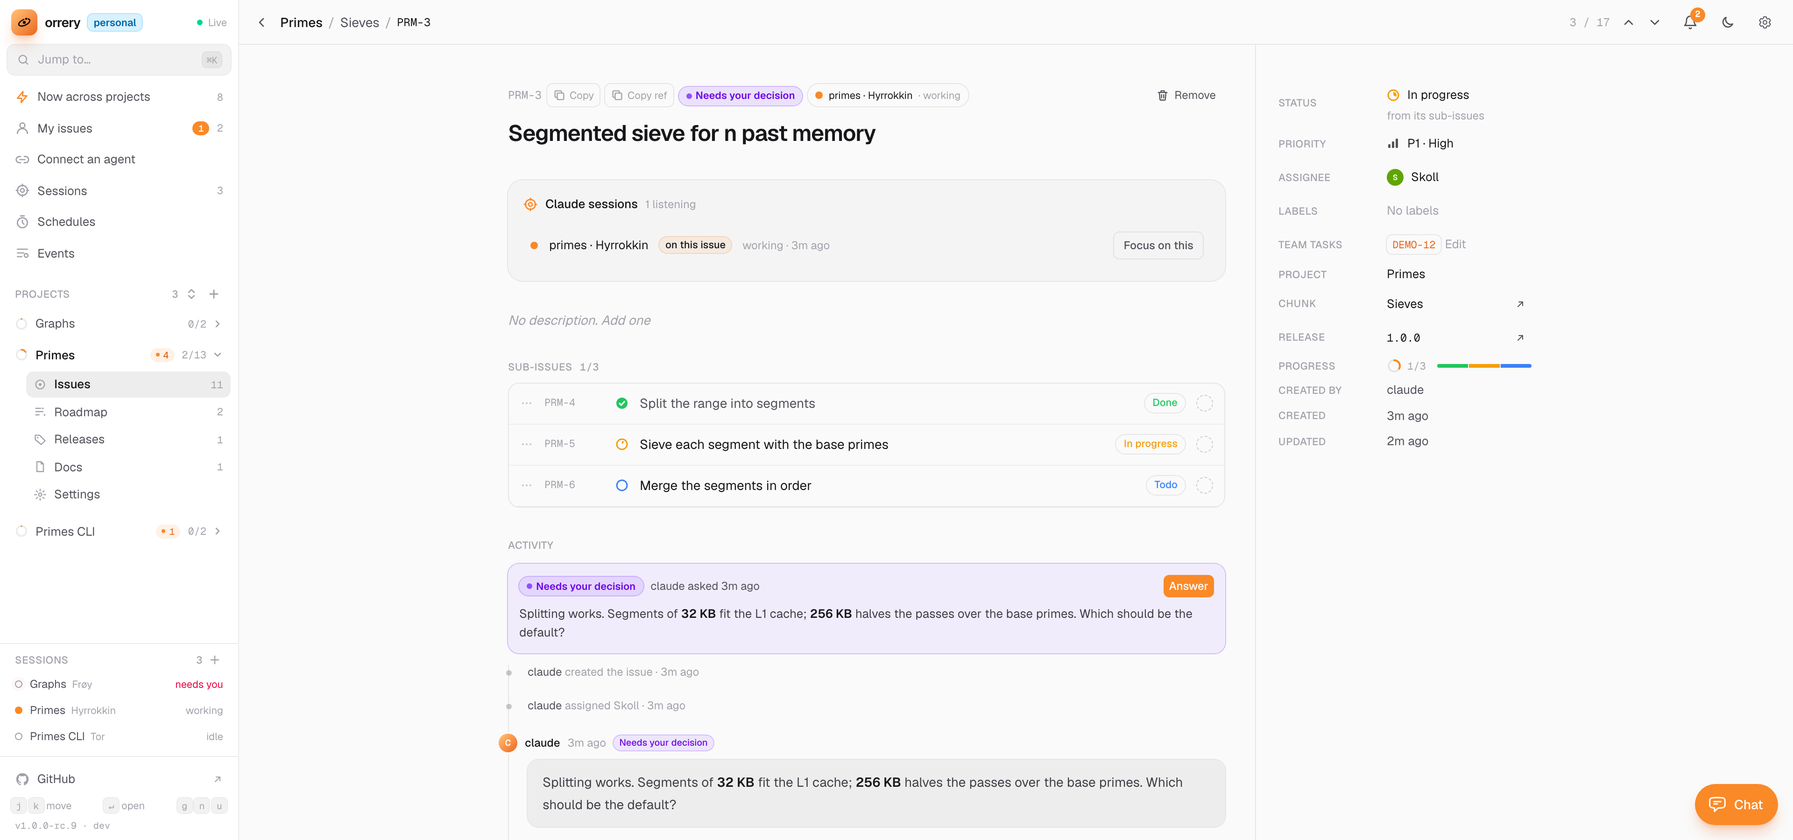
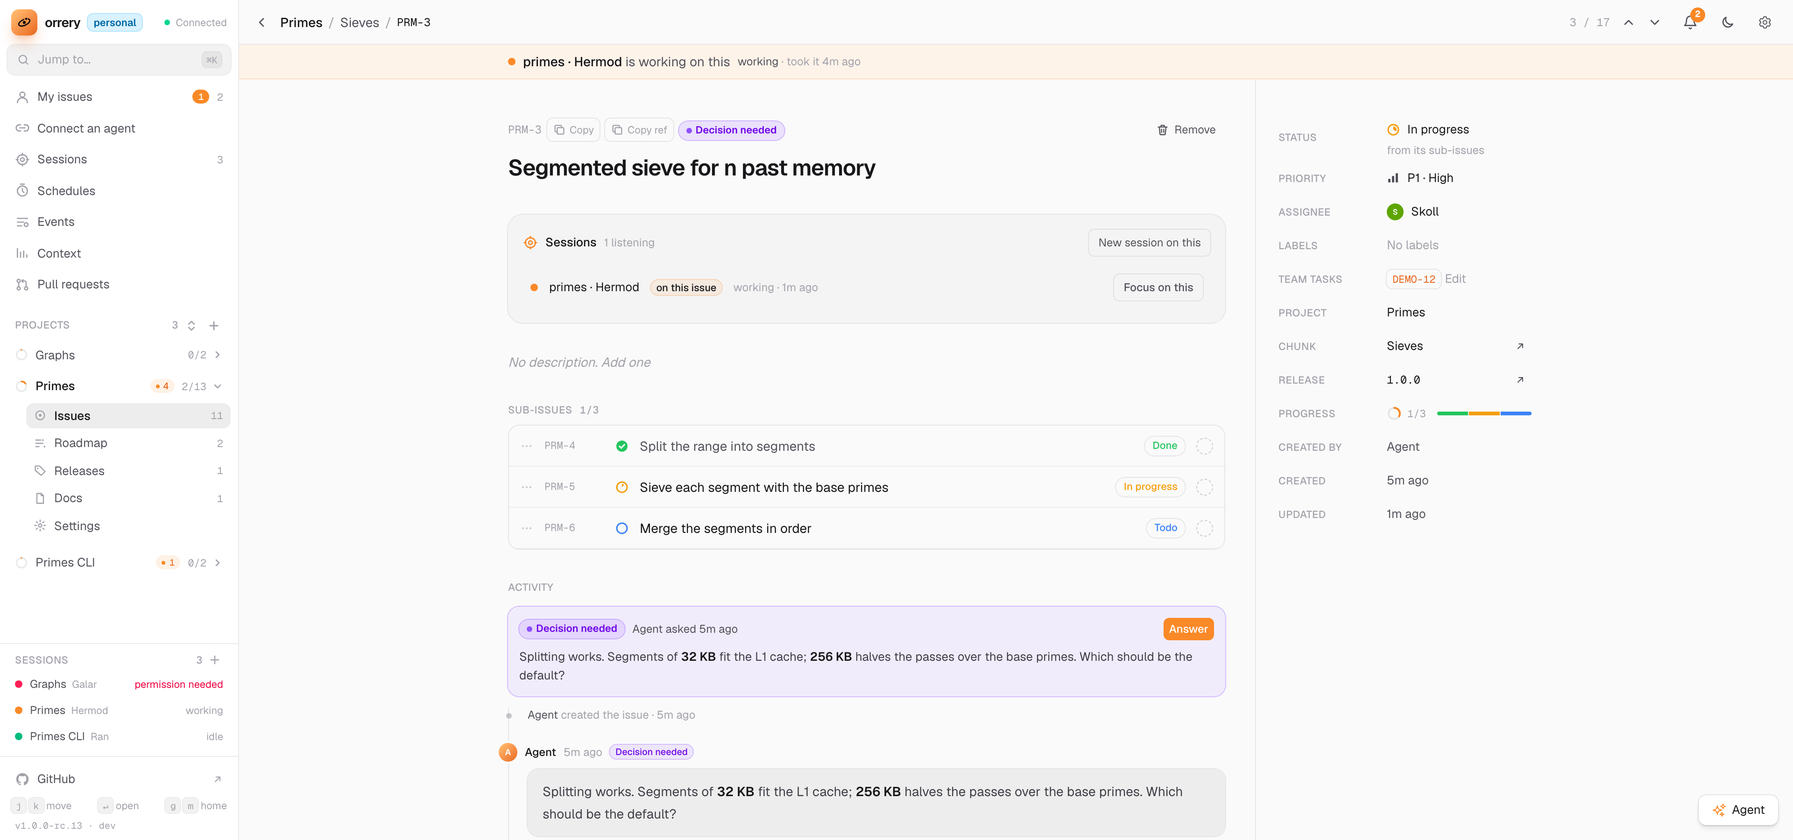
docs(orrery): retake the screenshots and fix docs drift for rc.13
The README's screenshots were from rc.9. The docs named settings
sections that moved, gave work sessions the chat's read tools, and
had the wrong build folder and perf port.

diff --git a/docs/using.md b/docs/using.md
@@ -33,7 +33,7 @@ The "ask the session" items only show when a Claude session is listening on that
 
 Tick issues (a row's box, shift-click for a run, `x`, ⌘A for the page) and a bar changes them together: status, priority, assignee, labels, chunk or release, or a decision on proposals.
 
-On the board, drag a card to another column to move it there, as the menu does; dragging a ticked card moves every ticked one. While you drag, the column it would land in lights up, a column the filter hides (Done and Canceled, to begin with) shows as a place to drop it, and one it can't go to is dimmed. While agents are kept off proposals (App settings → Proposals), nothing is dragged into Proposed or out of it: decide on a proposal on its page. `[` and `]` do the same from the keyboard.
+On the board, drag a card to another column to move it there, as the menu does; dragging a ticked card moves every ticked one. While you drag, the column it would land in lights up, a column the filter hides (Done and Canceled, to begin with) shows as a place to drop it, and one it can't go to is dimmed. While agents are kept off proposals (App settings → Issues), nothing is dragged into Proposed or out of it: decide on a proposal on its page. `[` and `]` do the same from the keyboard.
 
 ## Pointing Claude at work
 
@@ -75,7 +75,7 @@ Comments, the new-issue dialog and an issue's description take images: **paste**
 | An **issue's page** | Its title and description edit in place. Status, priority, assignee, labels and chunk change on the right. While a session works it, a banner on top says which, what it's doing and when it took the issue (with **Watch** for one orrery started), and stays in sight as you scroll; an assignee of `claude` names that session. On the list and the board, an issue a session is working has a small dot in the session's colours, fading while it works, with its name on hover. A question an agent asked you shows at the top, with **Answer**, until you do. A picture opens larger over the page on a click. Its open pull requests, when the project's repo is on GitHub: each with where it stands (conflicts, behind, checks failing, waiting on a review, ready to merge), so an issue in review or done isn't taken as shipped while its PR waits. One that conflicts, is behind or fails its checks has **Send back**, which asks the session on the issue (or one orrery picks or starts) to fix it, saying what's wrong (a `GITHUB_TOKEN` secret for `api.github.com` reads a private repo, and asks GitHub more often). Also sub-issues, the sessions panel, and the activity: comments with a quiet line for every change between them (who moved it, assigned it, relabelled it, and when) |
 | **Roadmap** | Chunks as cards in their columns. A chunk's page has its summary, priority, progress, issues and the sessions panel |
 | **Docs** | The project's Markdown pages, with contents beside them. The list groups them into sections (Decisions, How it works…), the docs in none first; click a section to fold it, which this browser remembers. Drag a doc onto a section to move it there (onto **Docs** for none), or right-click it for **Move to section**, which can make a new one. **New section**, at the foot, makes one before any doc is in it; right-click a section's header to **Rename** it (on all its docs at once) or **Delete** it, which keeps its docs under no section. **New doc** writes one; on a doc, **Edit** changes its title and text in place and **Remove** deletes it. A doc an agent changed since you read it is tinted where it changed |
-| **Releases** | For a project that ships: each version, its branch, its issues by progress, and a changelog drafted from them, grouped under Features, Changes and Fixes (then Docs and Internal) by the issues' labels: `feature request` or `feature` is a feature, `bug` or `fix` a fix, `docs` docs, `test` or `maintenance` internal, and anything else a change |
+| **Releases** | For a project that ships: each version, its branch, its issues by progress, and a changelog drafted from them, grouped under Features, Changes and Fixes (then Docs and Internal) by the issues' labels: `feature request` or `feature` is a feature, `bug` or `fix` a fix, `docs` docs, `test` or `maintenance` internal, and anything else a change. A release's page has its branch with its pull requests, its notes and every one of its issues by status; the branch, notes and day edit in place |
 | **Sessions** (`/sessions`) | Every Claude session by project, with one that hears several projects listed once under **Across projects**: its state and since when, its time left (one orrery started) and folder on one line, a message box, then what it's on **Now** (in progress; the rest it worked folded) and the latest thing it was sent (the rest folded). One orrery started has **Watch** (opens a terminal on it), **Show screen** (a read-only live view of it, on the page) and **Stop** (asked once more), and under **⋯** +30 minutes and the command that attaches to it; one you started yourself has **Stop** while its channel runs, and one nothing can reach (started without the channel) a **×** that takes it off the list (its next hook brings it back if it's still running; one idle an hour with no channel goes on its own). Also each project's launcher state. Its **Setup** tab starts with starting sessions: the launcher's install command to copy, then on or off; whether work reaching a project nobody's listening on starts one, or waits for you; the limits; and how many to keep running (never more than the limit, so lowering the limit lowers it too; one stopped as done is replaced by a fresh one with the same presets, one you stop isn't), with a line on what starts sessions and how many of your schedules do and how it's set up. Then presets (orrery ships a few; **Restore defaults** brings back one removed), the terminal **Watch** opens, and what sessions hear (the focus templates, with a preview, and the standing instructions); presets and what sessions hear are for every project or, picked in **For**, one project's own (its templates, its instructions and the orrery's it switches off, its presets). A contents list sits beside them on a wide screen. Its **Permissions** tab shows what each kind of session may do (a working session, your chat, an untrusted one): free, asks you, runs once it's yours, or yours alone, with why, from the same rules the server enforces |
 | **Chat** (**Agent**, the button in the bottom right corner of every page, or ⌘K) | Talk to Claude about a project on the page, with no terminal: it answers from the project's code, roadmap and docs, and makes issues and comments when you ask, but works on nothing itself. Ask it to message your sessions ("the sessions are idle, tell them to pick up Todo") and it shows you the text and who it goes to, idle sessions only unless you say otherwise, with **Send** and **Don't send**: nothing goes until you press Send. Then it goes as yours, and they and the Sessions page see it came through the chat. Ask it to change an App setting (your team tracker, the background tint, keeping agents off proposals, your handle, Advanced) and it shows the change, from → to, with **Allow** and **Deny**: nothing is saved until you press Allow. Secrets, the database, statuses and how sessions start stay yours to change on App settings. Ask it to set up a schedule, or to change, pause or resume one, and it shows the schedule (or each field, from → to) the same way; once allowed, a new one is yours, as if you'd made it on Schedules, and a change is made as you'd make it there (an agent's stays the agent's until you press **Make it mine**). Deleting one, and making one untrusted, stay on Schedules. Ask it to move issues ("mark ORR-12 and ORR-14 done", "put the duplicates in Canceled", "assign ORR-9 to me") and it shows each issue's status or assignee, from → to, with **Allow** and **Deny**; allowed, it's your move, as if you'd made it on the page, and a session on one of them hears it the same way. A proposal waiting on you stays yours to decide on its page, and an issue the chat moves is never the chat's to work on. Ask it to make a chunk, or rename one or change its summary or priority, and it shows the chunk the same way, saved as yours on Allow (then "put these issues in it" works in the same breath); removing one stays on its page. Ask it to add a release (its version, branch and place in the order), or to change one (its branch or notes, freezing or shipping it), and it shows that the same way; removing one stays on Releases. Ask it to start a session (on an issue, or working through statuses and a release, with presets and your words), stop one or give one more time, and it shows what would happen with **Allow** and **Deny**; nothing starts or stops until you allow it, and then it's yours, under the same limits as **Start session**. Watching one stays on the Sessions page. It opens ready to type into, with a few things to ask; your first message starts it. Enter sends, and you can write a thought in a few short messages: ones in quick succession go together, as one, once you stop typing for 2 seconds. Each shows as sent straight away, with the thinking dots. **⌘-Enter** or **Send** sends at once, and Esc in an empty box takes the last one back. If they can't go (no launcher, say), they say **Not sent** and wait for **Retry**; while the project has no launcher running, the pane shows the command that installs one, to copy. A slash command goes at once, after anything held. Paste, drop or add an image to show it: drop it anywhere on the pane, which says so while you drag one over it. The project, in its header, is the one you're on until you pick one there: picking pins it, so it stays put whatever page you open (remembered in this browser), and the pin beside it lets go, back to following the page. While the chat's project isn't the page's, a line under the header says so. It knows which page you're on as you write, so "this" means the issue, doc or schedules in front of you; a page on another project it reads as elsewhere, and still files in its own project unless you name the other. It needs the project's launcher, and nothing else: it counts towards no session limit and isn't listed with the sessions. **Copy** under each of its replies takes the reply's Markdown as written, to paste elsewhere (on a wide screen it shows when you point at or tab to the reply). Type `/clear` to give it a fresh context: the chat and its session carry on, a **Context cleared** line marks the cut, and what was said above it stays, greyed (any other slash command goes to it as words). Make the pane larger with the button beside ×. Closing the pane (×) ends the chat. **Minimize** (–, or Esc) hides it and leaves the chat running: the button brings it back as it was. Before a chat starts, Esc closes the pane. A chat still running, minimized or in another tab, makes the button's sparkles pulse |
 | **Schedules** (`/schedules`) | Work orrery starts on its own, at a time or when something happens (an issue moves to In review, a release is frozen, a new error): each run makes an issue, messages the sessions (presets, your own words or both; a message can skip a run when nothing in its project changed) or starts a session. Each project's are a card; **New schedule** picks the project in its dialog. One an agent made says so, and whether it runs, and is tinted as unseen until you open it, again after the agent changes it. A message or session one doesn't run until you open it, read what it says and its presets, and press **Make it mine**; pausing, renaming or retiming it leaves it the agent's. A working session you ask for a schedule asks you on its issue instead: the schedule (or each field, from → to) with **Allow** and **Deny**, saved as yours, and running, only once you allow it; your answer goes back to it as your comment. `?project=` keeps to one project. Under them, **Suggested** offers ready-made ones for the presets orrery ships (Release and Security audit when a release is frozen, a nudge to get the next release going when one ships, Review when an issue moves to In review, Debug an error on a new error): **Add** opens New schedule filled in, and nothing runs until you save it. One the project already has leaves the list |

diff --git a/docs/API.md b/docs/API.md
@@ -543,7 +543,7 @@ while it runs, so it's gone after orrery restarts.
 A focus reaches a session as its `prompt`: a template filled in, with standing instructions after it.
 The owner sets them (an agent gets a 403):
 
-- `PATCH /settings {focus_prompt?, chunk_prompt?, instructions?, handle?, tracker?, starts?, terminal?, restrict_proposals?, advanced?, pick_next?}`: the orrery's (`terminal`: the app Watch opens; `restrict_proposals`: see [Proposals](#proposals); `advanced`: see [Event log](#event-log); `starts`: see [Starting sessions](#starting-sessions); `pick_next`, false by default: a listening session out of work, with nothing in progress, no run left and nothing waiting on the owner, is sent a message, alone and as the owner's, listing the issues it may start (Todo, or Backlog once Todo is empty, most urgent first, at most 10, from the projects it hears; no proposals, nothing assigned to anyone but `claude` or waiting on the owner, no parents) to pick one; never the same list twice, and nothing with nothing to pick. One orrery started is sent it after its `/clear`. The idle sessions are tried again a few seconds after the board changes, one at a time). A template is text with
+- `PATCH /settings {focus_prompt?, chunk_prompt?, instructions?, handle?, tracker?, tint?, starts?, terminal?, restrict_proposals?, advanced?, pick_next?}`: the orrery's (`tint`: a tint's name, `#rrggbb`, or null for none; `terminal`: the app Watch opens; `restrict_proposals`: see [Proposals](#proposals); `advanced`: see [Event log](#event-log); `starts`: see [Starting sessions](#starting-sessions); `pick_next`, false by default: a listening session out of work, with nothing in progress, no run left and nothing waiting on the owner, is sent a message, alone and as the owner's, listing the issues it may start (Todo, or Backlog once Todo is empty, most urgent first, at most 10, from the projects it hears; no proposals, nothing assigned to anyone but `claude` or waiting on the owner, no parents) to pick one; never the same list twice, and nothing with nothing to pick. One orrery started is sent it after its `/clear`. The idle sessions are tried again a few seconds after the board changes, one at a time). A template is text with
   placeholders (`{issue}`, `{title}`, `{status}`, `{priority}`, `{chunk}`, `{where}`, `{note}`, `{url}`,
   `{actor}`; a chunk's also `{issues}`), and a line whose placeholders all come out empty is left out.
   `null` or `""` goes back to the default. `instructions` is a list of `{text, on?, id?}`, lines such as

diff --git a/docs/running.md b/docs/running.md
@@ -91,7 +91,7 @@ only as orrery starts.
 
 ### Backing up into Postgres
 
-Either database can be backed up into a Postgres database instead of a folder: App settings → Database, **Postgres**
+Either database can be backed up into a Postgres database instead of a folder: App settings → This orrery → Database, **Postgres**
 under Back up this orrery, with its URL (**Back up there** backs up into it at once), or `ORRERY_BACKUP_DATABASE` as
 orrery starts. It's copied the way a move copies, a minute after a change, and each backup takes the place of the last
 in one go, so a backup that fails leaves the one before whole; there are no daily copies. It has to be an empty database
@@ -215,7 +215,7 @@ be connected when Docker starts the container, since that's when the address is 
 `http://<this machine's IP>:9010` on the phone. It only works at home, and anyone else on that
 Wi-Fi, guests included, can use orrery too.
 
-Either way, the database is still moved only from this machine: App settings → Database refuses a
+Either way, the database is still moved only from this machine: App settings → This orrery → Database refuses a
 move from any other address.
 
 ## Where each database is
@@ -235,13 +235,13 @@ database with them; plain `down` keeps them.
 
 ## Without Docker
 
-Node 24.22.1 and pnpm 10.14.0: `pnpm install && pnpm build`, then
+Node 24.22.1 and pnpm 10.14.0: `pnpm install && pnpm build`, then, in `web/`,
 
 ```sh
 NUXT_DATABASE=/path/to/orrery.db PORT=9000 node .output/server/index.mjs
 ```
 
-The database file is made if it isn't there (by default `.data/orrery.db`). A relative path is taken
+The database file is made if it isn't there (by default `../.data/orrery.db`, the repo's `.data/` when it starts in `web/`). A relative path is taken
 from the folder the server starts in, so give `NUXT_DATABASE` an absolute one. It can also be a
 Postgres URL (`postgres://user:password@host:5432/orrery`): orrery lays down its tables on an empty
 database, and backs it up as a SQLite snapshot when `NUXT_BACKUP_DIR` is set. The other settings are

diff --git a/README.md b/README.md
@@ -37,12 +37,12 @@ through the `guide` tool.
 
 <table>
 <tr>
-<td width="50%"><img alt="An issue's page: its sub-issues, the session working on it beside its id and first in the Claude sessions panel, and a question waiting on the owner's decision" src="docs/images/issue-light.png"></td>
+<td width="50%"><img alt="An issue's page: a banner naming the session working on it, that session first in its Sessions panel, its sub-issues, and a question waiting on the owner's decision" src="docs/images/issue-light.png"></td>
 <td width="50%"><img alt="The Sessions page: each project's Claude sessions with their state, folder and a message box, and what the working one is on now" src="docs/images/sessions-light.png"></td>
 </tr>
 <tr>
 <td><img alt="The chat pane open over a project's issue list, ready for a first question, with suggestions and new issues going to Todo" src="docs/images/chat-light.png"></td>
-<td><img alt="The Events page: the event log read like a console, a line each for settings changes, new issues, comments and channels connecting" src="docs/images/events-light.png"></td>
+<td><img alt="The Events page: the event log read like a console, a line each for new issues, backups, and sessions' channels and launchers connecting" src="docs/images/events-light.png"></td>
 </tr>
 </table>
 
@@ -60,7 +60,7 @@ through the `guide` tool.
 - **To move to a new computer:** set it up the same way, point `ORRERY_BACKUP` at the same folder, and choose the
   backup to restore when it first opens.
 - **If your data looks gone after an update:** run `docker volume ls`. The volume is named after the folder, so a clone
-  in a folder with another name has another one. App settings → Database → **Restore a backup…** brings back any backup
+  in a folder with another name has another one. App settings → This orrery → Database → **Restore a backup…** brings back any backup
   in the folder.
 
 ## Quick start

diff --git a/docs/connect.md b/docs/connect.md
@@ -62,12 +62,13 @@ Then `source ~/.zshrc` and start the session with `shop`.
 
 The same server gives the session **tools** for its projects' roadmaps, so it works without curl:
 `issues`, `issue`, `start_issue`, `comment` (with `asks` for a decision or feedback), `finish_issue`,
-`create_issue` (a proposal too, with choices), `update_issue`, `chunks`, `releases`, `docs`, `doc` and
-`write_doc`; `presets` and `preset`, to read the context sessions can start with; `schedules` and `sessions`, to read
-the project's schedules and who's working on what; `secrets` and `egress`, to call an outside service with a [secret](API.md#secrets) it
+`create_issue` (a proposal too, with choices), `update_issue`, `releases`, `docs`, `doc` and
+`write_doc`; `sessions`, to read who's working on what; `create_schedule` and `update_schedule`, to ask you on its
+issue for a schedule (saved only once you allow it); `secrets` and `egress`, to call an outside service with a [secret](API.md#secrets) it
 never sees; `events` and `resolve_event`, to debug orrery from its [event log](API.md#event-log); and `guide`, how orrery
 itself works ([Using orrery](using.md), from the orrery it's connected to), so a session in any repo can answer "how do
-schedules work?". They write as `claude`, from that session, so your comments on an issue it worked go back
+schedules work?". `chunks`, `presets`, `preset` and `schedules`, which read the project's chunks, presets and schedules,
+are the [chat](API.md#chats)'s. They write as `claude`, from that session, so your comments on an issue it worked go back
 to it. Tools work in any session with the server in `.mcp.json`, even one started without the
 channels flag; only the pushed messages need the flag.
 

diff --git a/docs/development.md b/docs/development.md
@@ -71,13 +71,13 @@ has to say e2e (`postgres://orrery:orrery@localhost:5432/orrery_e2e`). CI runs i
 version, once on each database. A failed run leaves a trace to replay with `pnpm exec playwright show-trace test-results/…/trace.zip`.
 
 `e2e/visual.spec.ts` compares the board, the list and an issue's page to stored images. They're Linux's, so off
-Linux the spec skips; `pnpm test:e2e:visual` runs it in CI's Playwright image through Docker, and
+Linux the spec skips; `pnpm test:e2e:visual` (in `web/`) runs it in CI's Playwright image through Docker, and
 `pnpm test:e2e:visual -- --update-snapshots` remakes the images after a change that's meant to show.
 
 `pnpm test:e2e:perf` times the pages on a big orrery. `e2e/perf/seed.ts` fills a fresh `web/.data/perf.db` (or, with
 `E2E_POSTGRES_URL`, that Postgres) through the store: 20 projects, about 3,000 issues, 20,000 comments, 50,000
 history rows, plus proposals, events, docs and schedules. The `PERF_*` variables change the sizes (`PERF_ISSUES=10000`).
-Then it builds the app and runs it on port 3398, and `e2e/perf/perf.spec.ts` opens each page fresh: the first load,
+Then it builds the app and runs it on a port of the checkout's own (3400–3599), and `e2e/perf/perf.spec.ts` opens each page fresh: the first load,
 a big project's list, board and roadmap, an issue with a long thread, My issues, the bell, Notifications, Events,
 Sessions, Releases, the search, a dropped stream reconnecting, and a change arriving live. Each one has a budget in
 milliseconds, and a page over its budget fails the run. `web/perf-report/report.md` (and `report.json`) gives each

diff --git a/CONTRIBUTING.md b/CONTRIBUTING.md
@@ -15,7 +15,7 @@ or, without Docker, `pnpm install` and `pnpm dev` (Node 24.22.1, pnpm 10.14.0).
 
 ## Before a pull request
 
-- `pnpm test`, `pnpm typecheck`, `pnpm lint` and `pnpm test:e2e` pass (CI runs the first three on every pull request, `test:e2e` and `test:e2e:perf` on SQLite and Postgres on a release tag and when a pull request into `main` leaves draft (a release's; one into a release branch skips them), and builds the image; a release tag publishes only once they pass)
+- `pnpm test`, `pnpm typecheck`, `pnpm lint` and `pnpm test:e2e` pass (CI runs the first three on every pull request, `test:e2e` and `test:e2e:perf` on SQLite and Postgres on a release tag and on a pull request into `main` that isn't a draft (a release's; one into a release branch skips them), and builds the image; a release tag publishes only once they pass)
 - A change to the database is a new step at the end of the migrations in `web/server/utils/migrations/sqlite.ts` (and Postgres's in `web/server/utils/migrations/postgres.ts`); never edit one
 - A change to the API updates [docs/API.md](docs/API.md), which is also what agents read
 - A change to how something works updates the docs that describe it: `docs/` and the orrery's project docs (a decision's `decision-*` doc too), which agents read before the code

diff --git a/docs/components.md b/docs/components.md
@@ -193,7 +193,7 @@ Already one component each; use them rather than drawing the same thing again.
 | `NotFound` | what a page couldn't find (the slot), why that might be (`reason`) and a way back (`to`, `back`); it titles the tab "Not found". `error.vue` uses it for an unknown URL, inside the layout |
 | `DocContents` | a doc's table of contents |
 | `GettingStarted` | a new orrery's steps, ticked from live data (`useGettingStarted`): the first run as a page, `card` on My issues |
-| `LauncherHint` | while no launcher runs for a project, how to install one (on Getting started's last step), gone once one connects |
+| `LauncherHint` | while no launcher runs for a project, how to install one (on Getting started's last step, and in the chat), gone once one connects |
 | `NotificationBell` | the bell in the header: agents' comments, and those and their proposals waiting on the owner |
 | `ThemeToggle` | light ⇄ dark, following the system until one is picked |
 | `OrreryMark` | the logo's mark, in `currentColor` |
